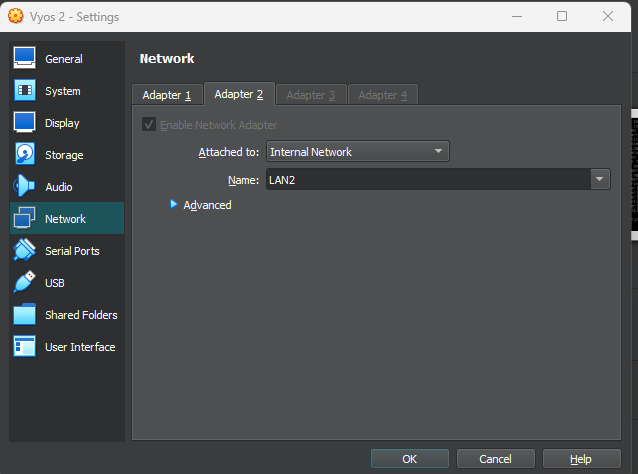
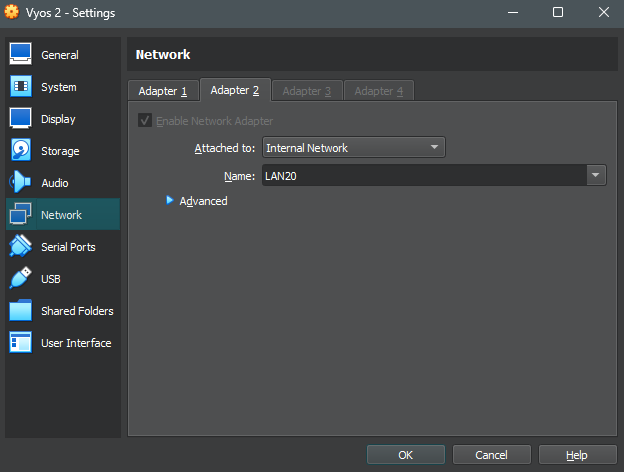
e05

diff --git a/documentation/E05.md b/documentation/E05.md
@@ -4,15 +4,15 @@
 
 Importattiin uusi lubuntu ja vyos, muunnettiin samalla kaikkien laitteiden nimet loogisiksi
 
-Asetettiin lubuntu 3 ja vyos 2 välinen yhteys adapter 1/port 0 kautta LAN 1 yhteydellä
+![loogiset nimet](./E05/loognim.png)
+
+Asetettiin lubuntu 3 ja vyos 2 välinen yhteys adapter 1/port 0 kautta LAN 15 yhteydellä
 
 ![vyos 2 to lubuntu 3](./E05/lubuntu3tovyos2.png)
 
-Asetettiin myös lubuntu 3 ip osoite oikeanlaiseksi
+Asetettiin myös lubuntu 3 ip osoite Automatic (DHCP) methodin mukaan.
 
-![lubuntu ip](./E05/lubuntu3ip.png)
-
-Asetettiin vyos 2 ja vyos 1 välinen yhteys adapter 2 /port 1 kautta LAN 2 yhteydellä
+Asetettiin vyos 2 ja vyos 1 välinen yhteys adapter 2 /port 1 kautta LAN 20 yhteydellä
 
 ![vyos to vyos](./E05/vyos2tovyos1.png)
 
@@ -38,7 +38,7 @@ Ohessa käytetyt komennot, vyos 1 päinvastaiset eikä siinä ole playstations t
 
 ### VYOS1
 
-![dhcp serverin konfiguroint](./E05/dhcp-reititys.png)
+![dhcp serverin konfigurointi](./E05/dhcp-reititys.png)
 
 Toistetaan sama operaatio VYOS 2 aliverkolle playstations (tag 15).
 
@@ -71,8 +71,6 @@ set service dhcp-server shared-network-name VLAN15 subnet 192.168.55.64/26 range
 ### VYOS2
 
 ![vyos 2 dhcp-server](./E05/vyos2dhcp.png)
-
-Selvitä dhcp serverin nimeämis error vyos1 ja 2 kanssa, ks oma teams viesti  jos epäselvää
 
 ### DHCP server leases
 
